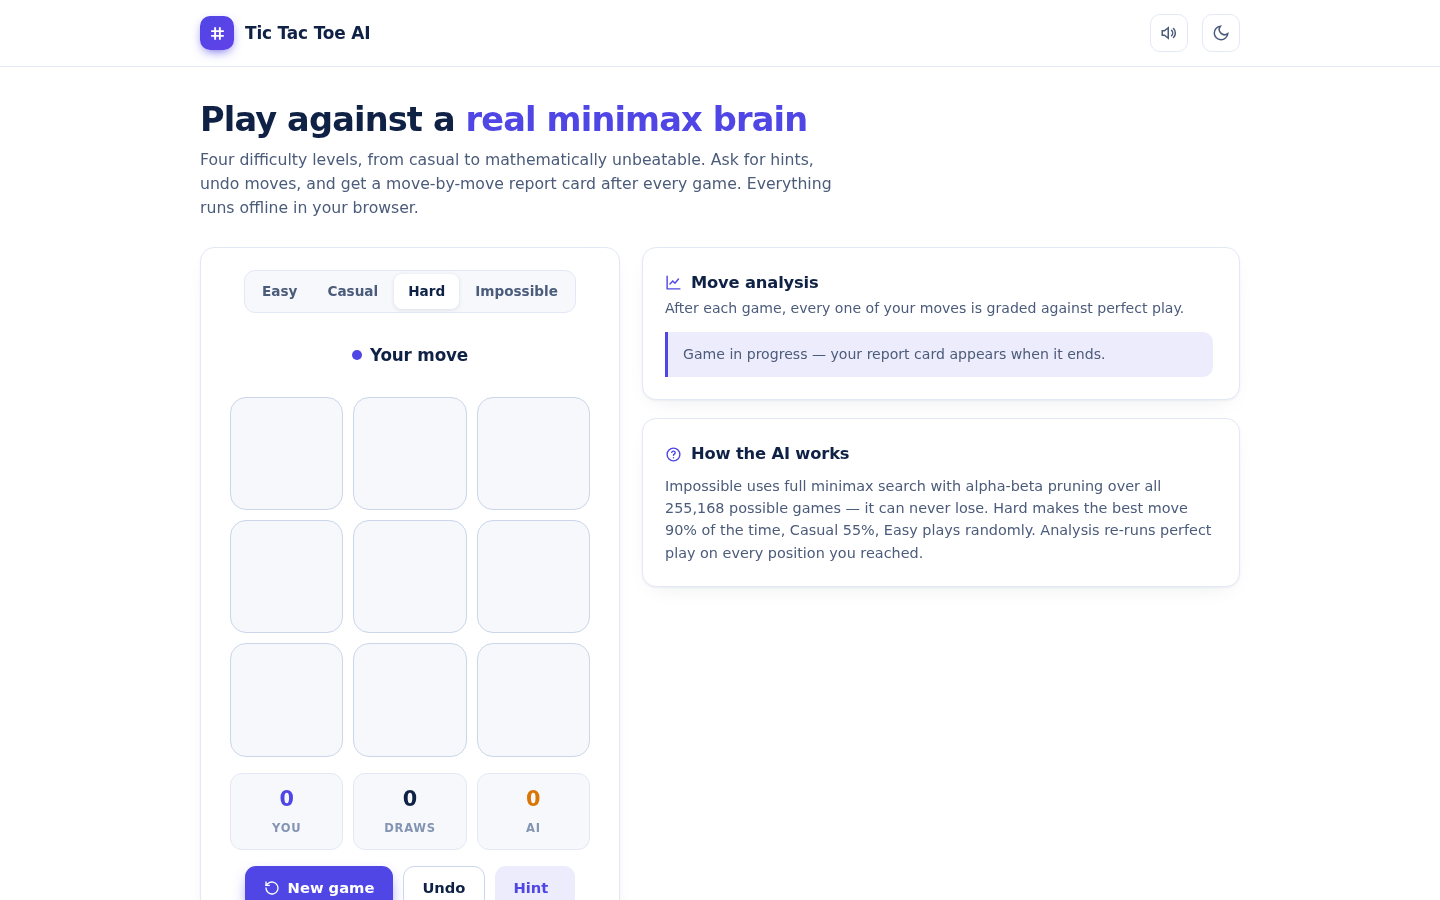
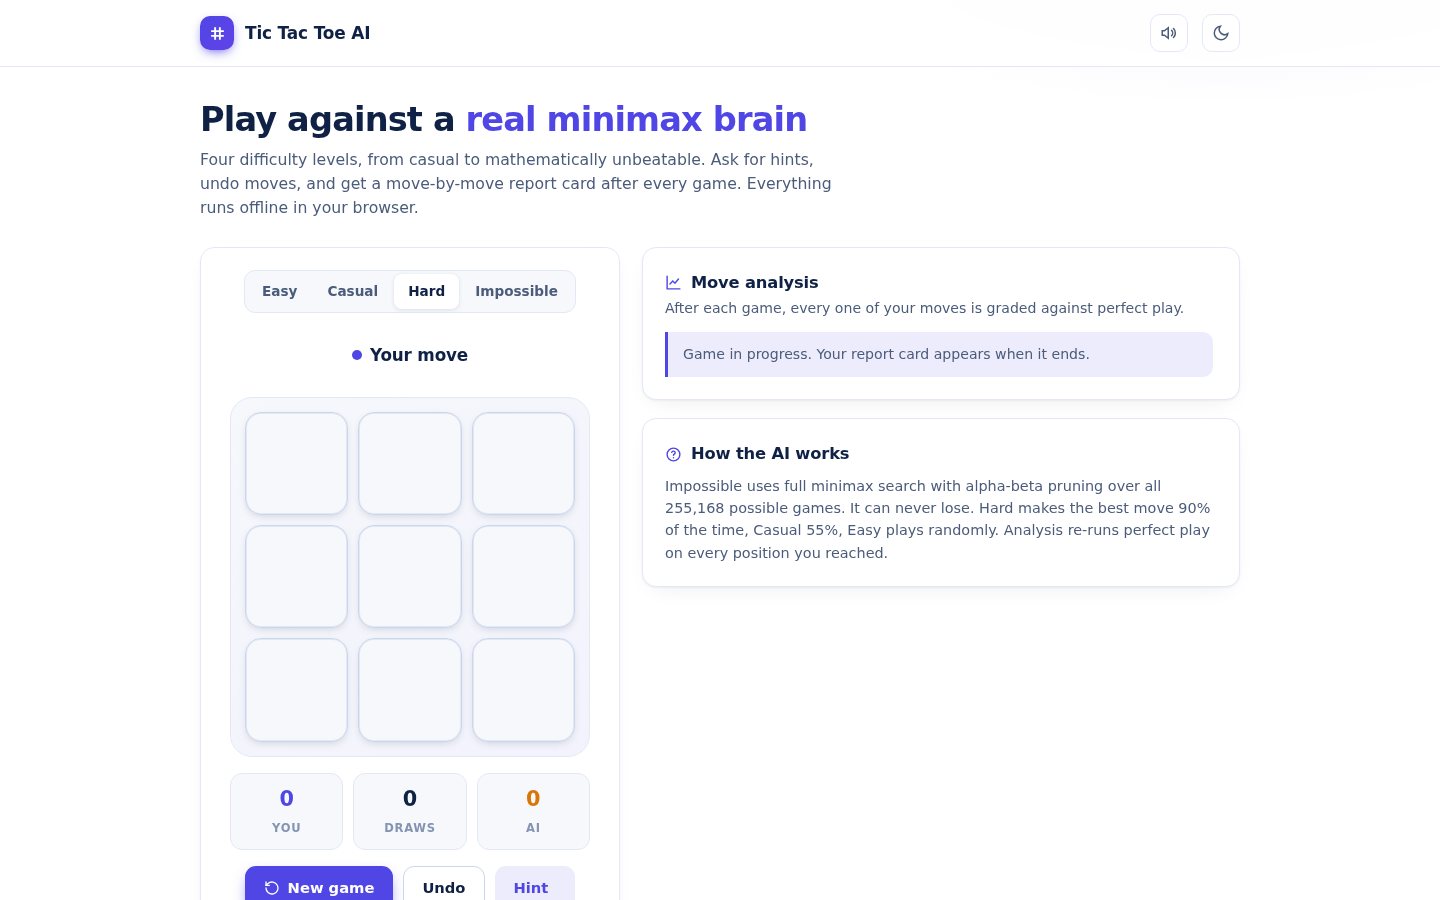
Premium board look + auto new game 3s after a draw (cancelable countdown)

Changed region(s): [[0.1562, 0.4667, 0.4062, 0.8089], [0.4688, 0.56, 0.8438, 0.6222], [0.5625, 0.3733, 0.75, 0.4044]]

diff --git a/index.html b/index.html
@@ -11,6 +11,23 @@
 <meta name="theme-color" content="#0f2145">
 <link rel="stylesheet" href="design.css">
 <style>
+body{background:
+  radial-gradient(60vw 40vh at 85% -10%, rgba(79,70,229,.10), transparent 60%),
+  radial-gradient(50vw 36vh at -10% 100%, rgba(217,119,6,.08), transparent 60%), var(--bg)}
+[data-theme="dark"] body{background:
+  radial-gradient(60vw 40vh at 85% -10%, rgba(99,102,241,.16), transparent 60%),
+  radial-gradient(50vw 36vh at -10% 100%, rgba(217,119,6,.10), transparent 60%), var(--bg)}
+.board-card{background:color-mix(in srgb,var(--bg-card) 88%,transparent);backdrop-filter:blur(8px)}
+.board{gap:12px;padding:14px;border-radius:22px;background:linear-gradient(145deg,var(--bg-soft),color-mix(in srgb,var(--bg-soft) 55%,var(--accent-soft)));border:1px solid var(--line)}
+.cell{border:none;background:var(--bg-card);box-shadow:0 3px 10px -4px rgba(15,33,69,.25), inset 0 0 0 1px var(--line);border-radius:18px}
+[data-theme="dark"] .cell{box-shadow:0 4px 14px -4px rgba(0,0,0,.6), inset 0 0 0 1px var(--line)}
+.cell:not(.taken):hover{box-shadow:0 6px 18px -4px var(--accent), inset 0 0 0 2px var(--accent);transform:scale(1.05)}
+.cell.x .mark{background:linear-gradient(135deg,var(--accent-ink),#7c3aed);-webkit-background-clip:text;background-clip:text;color:transparent;filter:drop-shadow(0 2px 6px rgba(79,70,229,.4))}
+.cell.o .mark{background:linear-gradient(135deg,#f59e0b,#dc2626);-webkit-background-clip:text;background-clip:text;color:transparent;filter:drop-shadow(0 2px 6px rgba(217,119,6,.35))}
+.cell.win{box-shadow:0 0 0 2.5px var(--ok),0 8px 22px -6px var(--ok);background:color-mix(in srgb,var(--ok) 14%,var(--bg-card))}
+.count-pill{display:inline-flex;align-items:center;gap:10px;background:var(--accent);color:#fff;padding:9px 16px;border-radius:99px;font-weight:700;font-size:.92rem;box-shadow:0 8px 20px -6px var(--accent)}
+.count-pill button{background:rgba(255,255,255,.2);color:#fff;border-radius:99px;padding:3px 12px;font-weight:700;font-size:.82rem}
+.count-pill button:hover{background:rgba(255,255,255,.34)}
 .game-wrap{display:grid;grid-template-columns:minmax(0,420px) 1fr;gap:22px;align-items:start}
 @media(max-width:880px){.game-wrap{grid-template-columns:1fr}}
 .board-card{display:flex;flex-direction:column;align-items:center;gap:16px}

diff --git a/app.js b/app.js
@@ -93,7 +93,7 @@ function endGame(w){
   gameOver=true;
   const cells=$$('.cell');
   if(w.line){w.line.forEach(i=>cells[i].classList.add('win'));drawWinLine(w.line)}
-  if(w.who==='draw'){scores.draw++;setStatus('🤝 It\'s a draw. Well defended!');beep(300,.15,'sine');}
+  if(w.who==='draw'){scores.draw++;beep(300,.15,'sine');startDrawCountdown();}
   else if(w.who===human){scores.you++;setStatus('🎉 You win! That\'s rare against this brain.');beep(523,.1);setTimeout(()=>beep(659,.1),110);setTimeout(()=>beep(784,.2),220);}
   else{scores.ai++;setStatus('🤖 AI wins this one. Check your analysis to see where it slipped.');beep(220,.2,'sawtooth',0.04);}
   localStorage.setItem('ttt-scores',JSON.stringify(scores));
@@ -148,7 +148,21 @@ function forecast(b,next){
     const m=bestMove(b,turn).move;b[m]=turn;turn=turn==='X'?'O':'X';
   }
 }
+let drawTimer=null;
+function startDrawCountdown(){
+  let n=3;
+  const tick=()=>{
+    if(n<=0){newGame();return}
+    setStatus(`<span class="count-pill">Draw! New game in ${n}s <button id="cancelAuto" type="button">Stay here</button></span>`);
+    const cb=document.getElementById('cancelAuto');
+    if(cb)cb.addEventListener('click',()=>{clearInterval(drawTimer);drawTimer=null;setStatus('🤝 Draw. Scores saved - press New game when ready.')});
+    n--;
+  };
+  tick();
+  drawTimer=setInterval(tick,1000);
+}
 function newGame(){
+  if(drawTimer){clearInterval(drawTimer);drawTimer=null}
   board=Array(9).fill(null);history=[];gameOver=false;
   $('#analysis').innerHTML='<div class="note">Game in progress. Your report card appears when it ends.</div>';
   // alternate starter, human always X or O per choice

diff --git a/README.md b/README.md
@@ -10,6 +10,7 @@ Play tic-tac-toe against a real minimax brain. Four difficulty levels from casua
 
 - **Unbeatable Impossible mode** - full minimax search with alpha-beta pruning over the complete game tree. It can never lose; the best you can do is draw.
 - **4 difficulty levels** - Easy (random), Casual (55% best move), Hard (90% best move), Impossible (perfect play).
+- **Auto next round** - after a draw, a new game starts in 3 seconds with a visible countdown you can cancel. Scores and your last report card stay on screen.
 - **Move analysis** - after every game, each of your moves is graded Best / Good / Missed against perfect play, with the optimal cell named.
 - **Hints** - highlights the strongest move in any position.
 - **Undo** - takes back your last move and the AI's reply.
